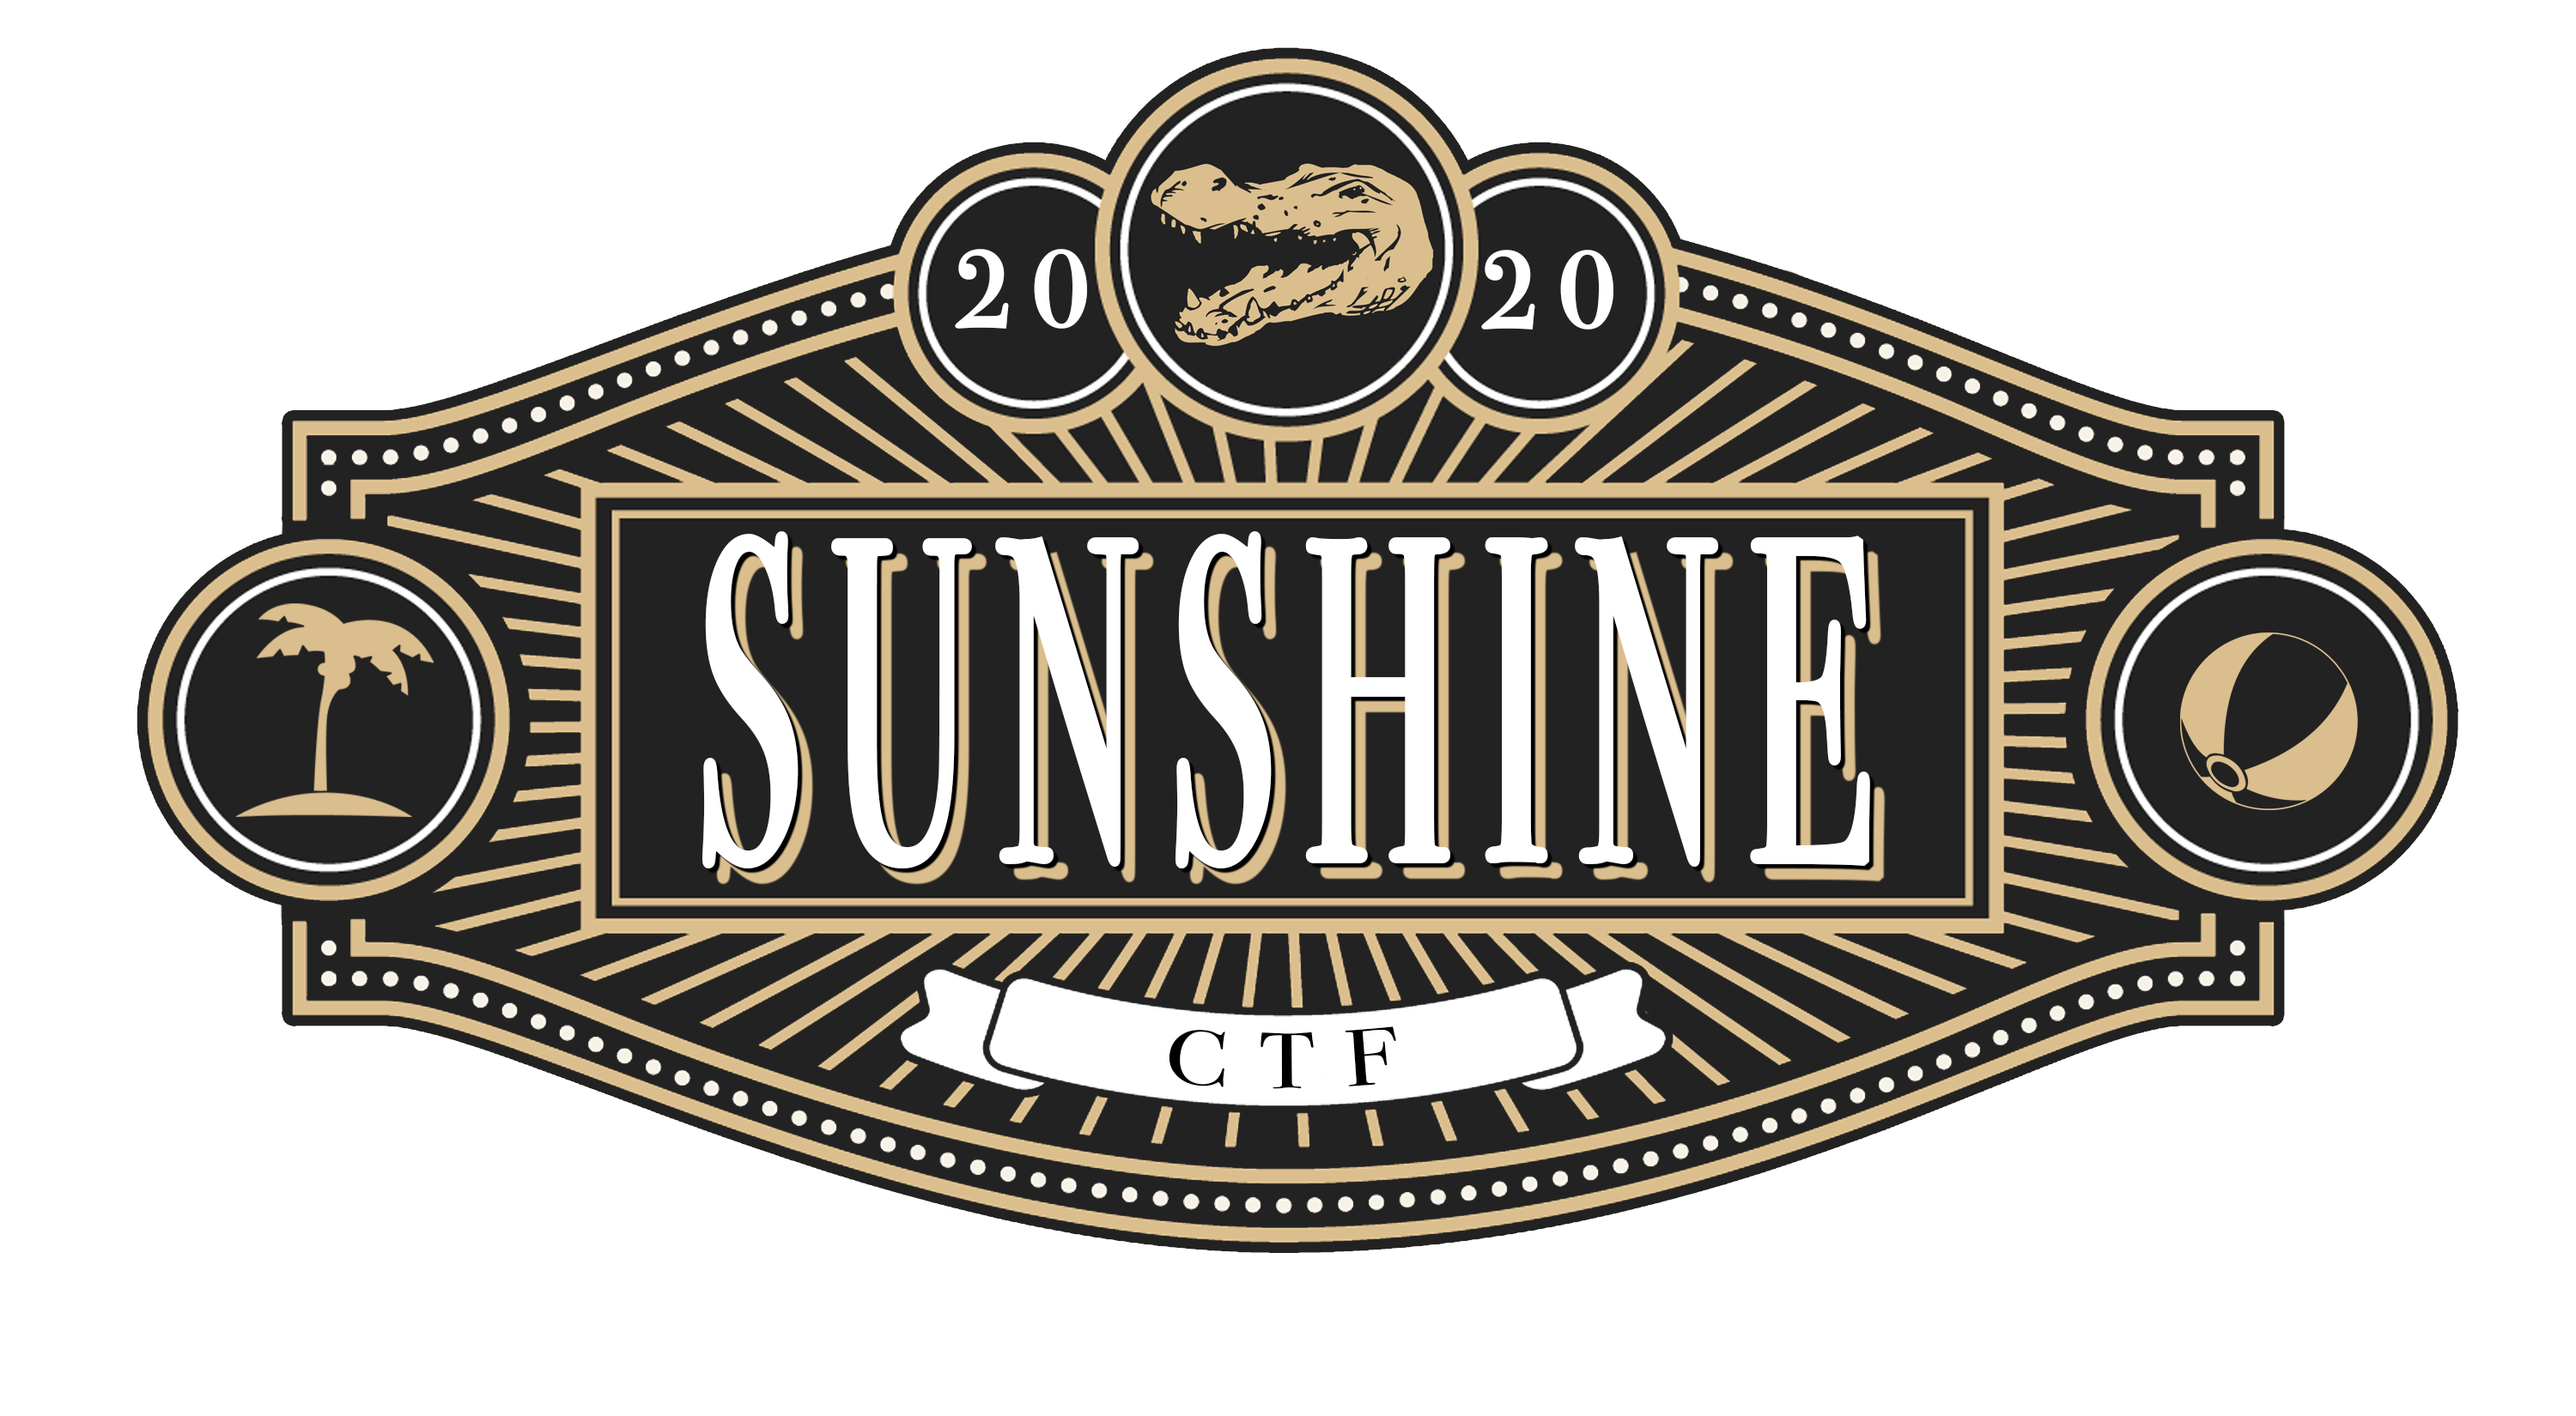
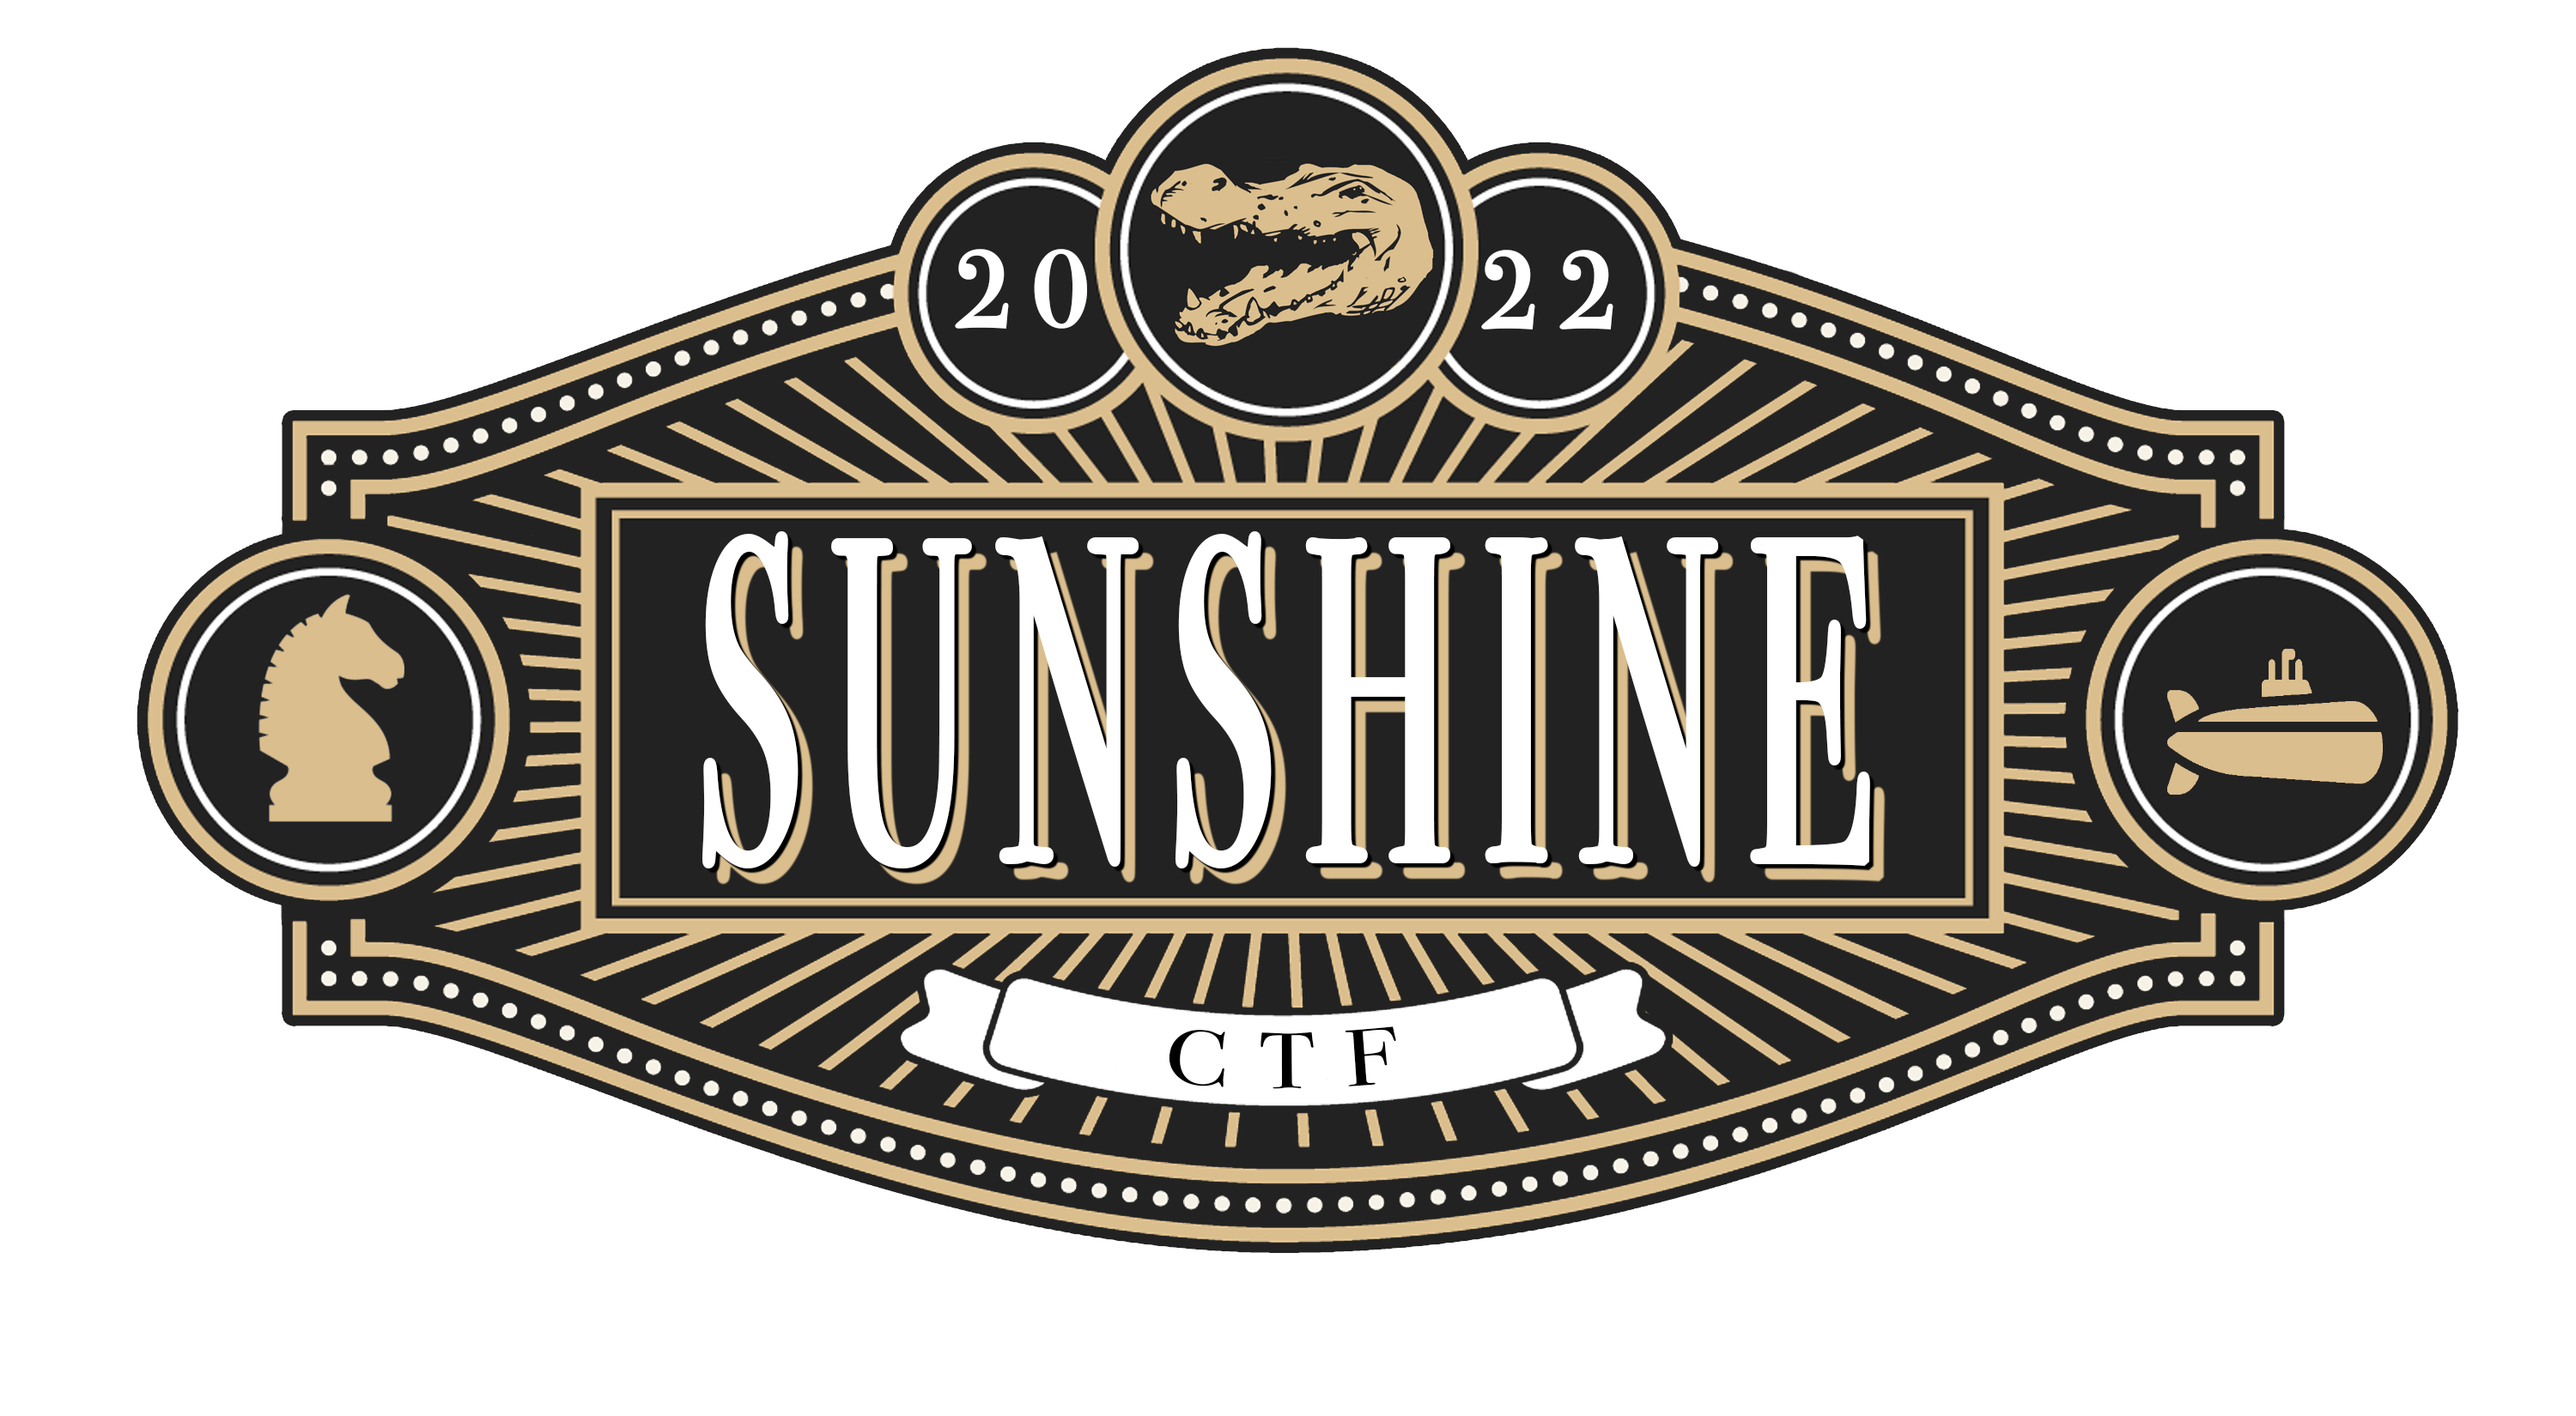
Updated Site for 2022

Changed region(s): [[0.093, 0.4018, 0.186, 0.5873], [0.837, 0.4327, 0.93, 0.5873], [0.589, 0.1855, 0.651, 0.2473]]

diff --git a/index.html b/index.html
@@ -104,15 +104,15 @@
                 <div class="card-body">
 
                   <div class="card-title">
-                    <h2 style="text-align: center;">SunshineCTF 2021</h2>
+                    <h2 style="text-align: center;">SunshineCTF 2022</h2>
                   </div>
                   <p style="padding-left: 2em"></p>
                   <svg width="1em" height="1em" viewBox="0 0 16 16" class="bi bi-alarm-fill" fill="currentColor" xmlns="http://www.w3.org/2000/svg">
                     <path fill-rule="evenodd" d="M6 .5a.5.5 0 0 1 .5-.5h3a.5.5 0 0 1 0 1H9v1.07a7.001 7.001 0 0 1 3.274 12.474l.601.602a.5.5 0 0 1-.707.708l-.746-.746A6.97 6.97 0 0 1 8 16a6.97 6.97 0 0 1-3.422-.892l-.746.746a.5.5 0 0 1-.707-.708l.602-.602A7.001 7.001 0 0 1 7 2.07V1h-.5A.5.5 0 0 1 6 .5zM.86 5.387A2.5 2.5 0 1 1 4.387 1.86 8.035 8.035 0 0 0 .86 5.387zM11.613 1.86a2.5 2.5 0 1 1 3.527 3.527 8.035 8.035 0 0 0-3.527-3.527zM8.5 5.5a.5.5 0 0 0-1 0v3.362l-1.429 2.38a.5.5 0 1 0 .858.515l1.5-2.5A.5.5 0 0 0 8.5 9V5.5z"/>
-                  </svg> <b>START: 10:00 EST / 14:00 UTC Saturday, September 18th 2021<br></b>
+                  </svg> <b>START: 11:00 EST / 15:00 UTC Saturday, June 4th 2022<br></b>
                   <svg width="1em" height="1em" viewBox="0 0 16 16" class="bi bi-alarm-fill" fill="currentColor" xmlns="http://www.w3.org/2000/svg">
                     <path fill-rule="evenodd" d="M6 .5a.5.5 0 0 1 .5-.5h3a.5.5 0 0 1 0 1H9v1.07a7.001 7.001 0 0 1 3.274 12.474l.601.602a.5.5 0 0 1-.707.708l-.746-.746A6.97 6.97 0 0 1 8 16a6.97 6.97 0 0 1-3.422-.892l-.746.746a.5.5 0 0 1-.707-.708l.602-.602A7.001 7.001 0 0 1 7 2.07V1h-.5A.5.5 0 0 1 6 .5zM.86 5.387A2.5 2.5 0 1 1 4.387 1.86 8.035 8.035 0 0 0 .86 5.387zM11.613 1.86a2.5 2.5 0 1 1 3.527 3.527 8.035 8.035 0 0 0-3.527-3.527zM8.5 5.5a.5.5 0 0 0-1 0v3.362l-1.429 2.38a.5.5 0 1 0 .858.515l1.5-2.5A.5.5 0 0 0 8.5 9V5.5z"/>
-                  </svg> <b>FINISH: 10:00 EST / 14:00 UTC Sunday, September 19th 2021<br></b>
+                  </svg> <b>FINISH: 11:00 EST / 15:00 UTC Sunday, June 5th 2022<br></b>
                   <svg width="1em" height="1em" viewBox="0 0 16 16" class="bi bi-joystick" fill="currentColor" xmlns="http://www.w3.org/2000/svg">
                     <path d="M7.106 15.553L.553 12.276A1 1 0 0 1 0 11.382V9.471a1 1 0 0 1 .606-.89L6 6.269v1.088L1 9.5l5.658 2.83a3 3 0 0 0 2.684 0L15 9.5l-5-2.143V6.27l5.394 2.312a1 1 0 0 1 .606.89v1.911a1 1 0 0 1-.553.894l-6.553 3.277a2 2 0 0 1-1.788 0z"/>
                     <path fill-rule="evenodd" d="M7.5 9.5v-6h1v6h-1z"/>
@@ -120,7 +120,7 @@
                   </svg> CTF Type: Jeopardy<br>
                   <svg width="1em" height="1em" viewBox="0 0 16 16" class="bi bi-tag-fill" fill="currentColor" xmlns="http://www.w3.org/2000/svg">
                     <path fill-rule="evenodd" d="M2 1a1 1 0 0 0-1 1v4.586a1 1 0 0 0 .293.707l7 7a1 1 0 0 0 1.414 0l4.586-4.586a1 1 0 0 0 0-1.414l-7-7A1 1 0 0 0 6.586 1H2zm4 3.5a1.5 1.5 0 1 1-3 0 1.5 1.5 0 0 1 3 0z"/>
-                  </svg> Categories: Pwn, RE, Web, Forensics, Crypto, Scripting, and a Special Suprise!<br>
+                  </svg> Categories: TBA!<br>
                   <svg width="1em" height="1em" viewBox="0 0 16 16" class="bi bi-flag-fill" fill="currentColor" xmlns="http://www.w3.org/2000/svg">
                     <path fill-rule="evenodd" d="M14.778.085A.5.5 0 0 1 15 .5V8a.5.5 0 0 1-.314.464L14.5 8l.186.464-.003.001-.006.003-.023.009a12.435 12.435 0 0 1-.397.15c-.264.095-.631.223-1.047.35-.816.252-1.879.523-2.71.523-.847 0-1.548-.28-2.158-.525l-.028-.01C7.68 8.71 7.14 8.5 6.5 8.5c-.7 0-1.638.23-2.437.477A19.626 19.626 0 0 0 3 9.342V15.5a.5.5 0 0 1-1 0V.5a.5.5 0 0 1 1 0v.282c.226-.079.496-.17.79-.26C4.606.272 5.67 0 6.5 0c.84 0 1.524.277 2.121.519l.043.018C9.286.788 9.828 1 10.5 1c.7 0 1.638-.23 2.437-.477a19.587 19.587 0 0 0 1.349-.476l.019-.007.004-.002h.001"/>
                   </svg> Flag Format: <code>sun{stuff}</code><br>
@@ -128,7 +128,7 @@
                 </div>
               </div>
               <br>
-              <p>Welcome to the sixth year of Sunshine CTF, hosted by Hack@UCF (the Collegiate Cyber Defense Club @ UCF)
+              <p>Welcome to the seventh year of Sunshine CTF, hosted by Hack@UCF (the Collegiate Cyber Defense Club @ UCF)
                 <!-- in affiliation with B-Sides Orlando 2021. We've created challenges around this year's theme: Floridian -->
                 <!-- Vacations. Prepare your mouse ears and beach chairs!</p> -->
               <!-- <p>Remote participants are allowed and encouraged, however the winning team must be present at B-Sides
